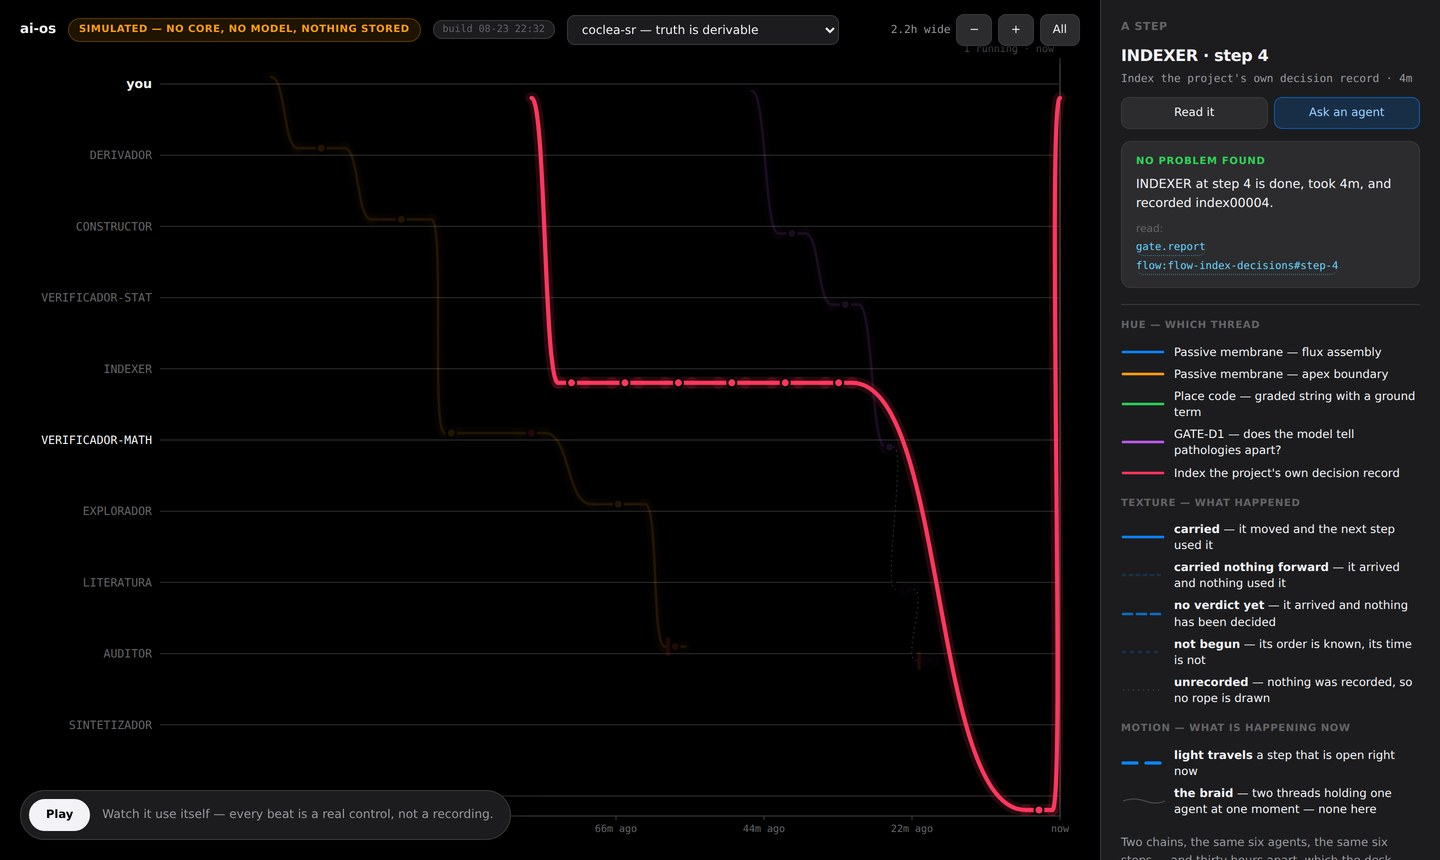
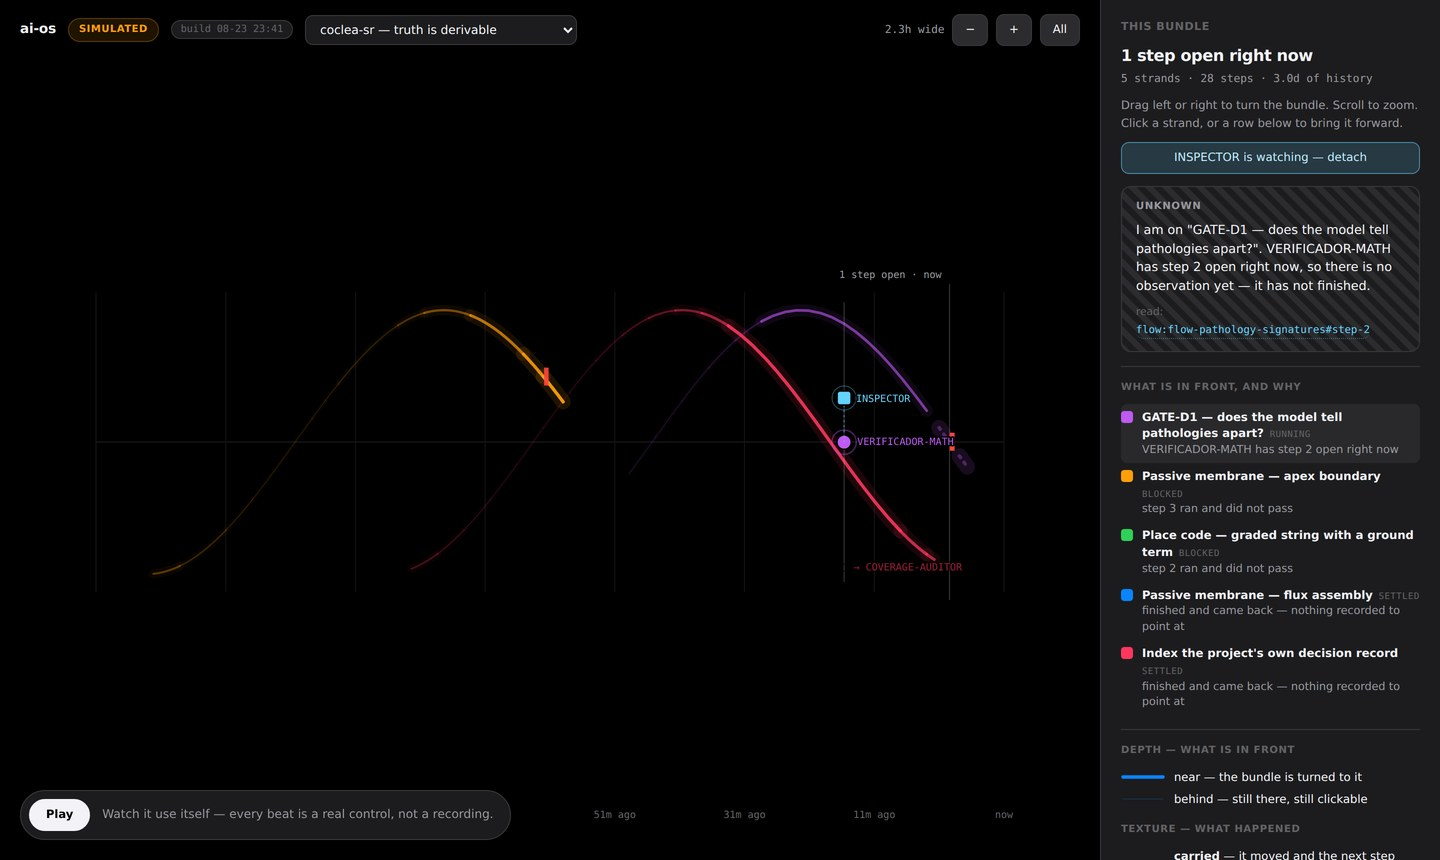
The bundle is the demo
`/demo/` is `build-helix.ts` now: one axis that is time, every flow a strand
wound around it, and depth standing for attention.

It is not a different idea from the swimlanes — it is the same data with the
second dimension spent differently. Swimlanes spend Y on *which agent holds it*,
which is legible and does not scale: eleven agents is eleven rows. The bundle
spends Y and Z on *which strand*, and puts the agent on the strand as a body
riding it. That is the RNA-and-polymerase picture, and it is also the right way
round: an agent holds a task for a while and hands it on, and it is the task that
persists.

What the bundle can do that swimlanes cannot is **turn**, and turning is a claim
— so it carries the same address rule as every finding here. The panel says which
strand is in front, why, and where it read that; `assertJustified` throws on a
reason with no address.

A Play tour, under the same rule as every tour in this repository: each beat
operates the real controls — the real attention rows, the real zoom, the real
scene selector, the real attach button. Watched it run end to end: 51s, no page
errors.

And it caught the same class of defect I keep catching by watching rather than
testing. The beat that says *zoom out far enough and the coil stops being drawn*
pressed zoom-out four times, which reaches twenty-four hours — where a turn is
still about seventy-five pixels and the coil is still very much drawn. It presses
[…]

diff --git a/ai-ui/scripts/build-helix.ts b/ai-ui/scripts/build-helix.ts
@@ -839,6 +839,135 @@ const JS = String.raw`
   draw();
   styleLive();
   animate();
+
+  /**
+   * Play — the bundle, driving itself.
+   *
+   * The rule every tour in this repository lives under: each beat operates the
+   * **real controls** — the real attention rows, the real zoom buttons, the real
+   * scene selector, the real attach button — and then lets the page react
+   * however it reacts. Nothing draws a frame or asserts an outcome, so if the
+   * surface breaks the tour breaks. Any real gesture stops it where it stands.
+   */
+  (() => {
+    const bar = document.createElement('div');
+    bar.className = 'tourbar';
+    bar.innerHTML = '<button id="tourgo">Play</button><span id="tourcap">' +
+      'Watch it use itself — every beat is a real control, not a recording.</span>';
+    document.body.appendChild(bar);
+
+    let running = false, stop = false;
+    const cap = (t) => { document.getElementById('tourcap').textContent = t; };
+    const sleep = (ms) => new Promise((r) => setTimeout(r, ms));
+    const halt = () => { if (!running) return; stop = true;
+      cap('Stopped — it is yours. Drag to turn it, scroll to zoom, click anything.'); };
+    for (const ev of ['pointerdown', 'keydown', 'wheel'])
+      window.addEventListener(ev, (e) => { if (e.isTrusted) halt(); }, true);
+
+    const press = async (id, n) => {
+      for (let i = 0; i < (n || 1) && !stop; i += 1) {
+        const b = document.getElementById(id);
+        if (b) b.click();
+        await sleep(200);
+      }
+    };
+    /** Click a row in the attention list — the real one, by its flow id. */
+    const turnRow = async (i) => {
+      const rows = [...document.querySelectorAll('.att .row')];
+      if (rows[i]) rows[i].click();
+      await sleep(900);
+    };
+    const scene = async (id) => {
+      const s = document.getElementById('scene');
+      s.value = id;
+      s.dispatchEvent(new Event('change', { bubbles: true }));
+      await sleep(1200);
+    };
+
+    const beats = [
+      async () => {
+        cap('Every flow is a strand wound round one axis, and the axis is time. The right edge is now, and everything drifts left because the clock is running.');
+        await sleep(4000);
+      },
+      async () => {
+        cap('They separate in depth, not in height. What is bright and thick is at the front; what is faint is behind the bundle — still there, still clickable.');
+        await sleep(3800);
+      },
+      async () => {
+        cap('The bundle is already turned to the strand with a step open right now. Turning is a claim, so the panel says which strand, why, and where it read that.');
+        await sleep(4200);
+      },
+      async () => {
+        cap('The circles are the agents, riding the strand they are holding. Where a strand has a hollow mark instead, nobody is holding it — that is the thing in transit between two of them.');
+        await sleep(4200);
+      },
+      async () => {
+        cap('Turn it to something else. This one stops against a bar and never comes back: a gate declared before the run measured 2.592e-4 against a tolerance of 1.0e-4.');
+        await turnRow(1);
+        await sleep(4000);
+      },
+      async () => {
+        /**
+         * Zoom out until the coil actually stops, not a fixed number of presses.
+         *
+         * Four presses reached twenty-four hours, where a turn is still about
+         * seventy-five pixels — so the beat claimed the coil had stopped being
+         * drawn while the screen was still drawing it. The number of presses
+         * that crosses the threshold depends on the window width, which the tour
+         * cannot know. So it presses until the page says it is flat, and gives up
+         * rather than looping if it never does.
+         */
+        cap('Zoom out far enough and the coil stops being drawn — one turn would be narrower than the marks drawing it, so what you would see is the sampling and not the shape. It says so rather than drawing it.');
+        for (let i = 0; i < 9 && !stop; i += 1) {
+          if (/flat/.test(document.getElementById('lvl').textContent)) break;
+          await press('zout');
+        }
+        await sleep(4200);
+      },
+      async () => {
+        cap('Back in, and it winds again.');
+        await press('znow');
+        await sleep(2600);
+      },
+      async () => {
+        cap('Put the system agent on it. INSPECTOR is an agent like the others, with one tool: read. It attaches to the front strand and rides it.');
+        await press('watch');
+        await sleep(4200);
+      },
+      async () => {
+        cap('What it says carries the address it read — one click and you are looking at what it looked at. When it has nothing to read, it is required to say unknown.');
+        await sleep(4000);
+      },
+      async () => {
+        cap('The other project. No closed form exists there, so the judge itself goes on trial — and one strand frays and stops, because no verdict has been reached.');
+        await scene('hemo-verified');
+        await sleep(4400);
+      },
+      async () => {
+        cap('And here the bundle turns on its own, to a strand that is green all the way through and wrong: a step used nothing it was given. That is the finding this whole system exists to make visible.');
+        await scene('memory-lab');
+        await sleep(4800);
+      },
+      async () => {
+        cap('It is yours. Drag to turn it, scroll to zoom, click any strand or any row.');
+        await sleep(2200);
+      },
+    ];
+
+    const play = async () => {
+      if (running) { halt(); return; }
+      running = true; stop = false;
+      document.getElementById('tourgo').textContent = 'Stop';
+      for (const beat of beats) {
+        if (stop) break;
+        try { await beat(); }
+        catch (e) { cap('The tour hit something the page did not expect: ' + e.message); break; }
+      }
+      running = false; stop = false;
+      document.getElementById('tourgo').textContent = 'Play again';
+    };
+    document.getElementById('tourgo').onclick = play;
+  })();
 })();
 `;
 

diff --git a/README.es.md b/README.es.md
@@ -55,9 +55,9 @@ no.
 
 ### → **[evolvingagentslabs.github.io](https://evolvingagentslabs.github.io/)** — qué es, y un escritorio que podés usar en el navegador
 
-<a href="https://evolvingagentslabs.github.io/demo/"><img src="doc/assets/manual/09-desk.jpg" alt="Hilos de pensamiento: lo horizontal es tiempo, cada cuerda es un flow, y dónde está es qué agente lo sostiene" width="100%"></a>
+<a href="https://evolvingagentslabs.github.io/demo/"><img src="doc/assets/manual/09-desk.jpg" alt="Un haz de flows enroscado alrededor de un eje de tiempo, con los agentes cabalgando las hebras que sostienen" width="100%"></a>
 
-<sub><b><a href="https://evolvingagentslabs.github.io/demo/">Abrí el demo →</a></b> <b>Lo horizontal es tiempo y el borde derecho es ahora.</b> Cada cuerda es un flow; dónde está dice qué agente lo sostiene. Arranca con vos preguntando, baja por los agentes y — si terminó — vuelve a vos. Arrastrá a la izquierda para ir atrás, scroll para zoom, clickeá cualquier cuerda o cuenta.<br><br><b>El tono es qué hilo. La textura es qué pasó.</b> Un salto que llevó algo está encendido; uno que llegó y nadie usó se apaga; uno esperando veredicto se deshilacha; y uno que nadie registró <b>no se dibuja</b> — ves el fondo a través, porque <i>no corrió</i> no es <i>pasó</i>.<br><br><b>Y todo lo que se mueve es una medición.</b> Se anima exactamente una cosa sola: un paso abierto ahora mismo. Cuando no hay ninguno, nada en la página se mueve — que es lo único que hace creíble la versión que sí se mueve.<br><br>Cuatro scopes, todos reales: <b>coclea-sr</b> (dos cadenas, los mismos seis agentes, con treinta horas de diferencia — una volvió, la otra frenó en una compuerta que midió 2.592e-4 contra una tolerancia de 1.0e-4), <b>hemo-verified</b> (sin forma cerrada, así que se mide al juez: 0.9056 contra un umbral escrito antes), y los dos scopes que cargan un flow verde y equivocado. <b>La orquestación es simulada</b> — sin core, sin modelo, nada guardado — pero los números salen de los artefactos de los proyectos, y <a href="scripts/check-demo-provenance.py"><code>check-demo-provenance.py</code></a> rompe el build si alguno deja de coincidir. Para re-derivarlos vos, byte por byte, en tu navegador: <b><a href="https://evolvingagentslabs.github.io/verify/">la página de verificación</a></b>.</sub>
+<sub><b><a href="https://evolvingagentslabs.github.io/demo/">Abrí el demo →</a></b> <b>Un eje, y es el tiempo.</b> Cada flow es una hebra enroscada a su alrededor, así que comparten la misma banda de pantalla y se separan <b>en profundidad</b>, no en altura — lo brillante y grueso está adelante, lo tenue está detrás del haz. <b>Arrastrá para girarlo.</b> Girar es cómo prestás atención: otra hebra viene al frente sin que nada tenga que correrse.<br><br><b>Los agentes cabalgan la hebra que sostienen.</b> Un círculo es un agente con el pensamiento en la mano; donde hay una marca hueca, nadie lo está sosteniendo — eso es lo que va en tránsito entre dos. <code>INSPECTOR</code>, un agente de sistema con una sola herramienta (read), se engancha a cualquier hebra y la cabalga, y todo lo que dice lleva la dirección de lo que leyó.<br><br><b>Dos movimientos, dos significados.</b> Todo se desplaza a la izquierda siempre, porque el reloj corre — lo cual es incondicionalmente cierto, y como las hebras se retuercen a lo largo del eje ese desplazamiento también gira el haz. La luz viaja una hebra <i>sólo</i> donde hay un paso abierto ahora. Y <b>girar es una afirmación</b>: el panel dice qué hebra está adelante, por qué, y de dónde lo leyó — un giro que la superficie no puede justificar es uno que se niega a hacer.<br><br>Alejarse agrega en vez de encoger: por debajo de cuarenta y seis píxeles por vuelta el espiral deja de dibujarse y lo dice, porque lo que verías sería el muestreo y no la forma. Cuatro scopes, todos reales — <b>coclea-sr</b> (una compuerta que midió 2.592e-4 contra una tolerancia de 1.0e-4), <b>hemo-verified</b> (sin forma cerrada, así que se mide al juez: 0.9056), y dos que cargan un flow verde y equivocado. <b>La orquestación es simulada</b>; los números salen de los artefactos de los proyectos, y <a href="scripts/check-demo-provenance.py"><code>check-demo-provenance.py</code></a> rompe el build si alguno deja de coincidir. Para re-derivarlos vos: <b><a href="https://evolvingagentslabs.github.io/verify/">la página de verificación</a></b>.</sub>
 
 ## Correrlo
 

diff --git a/README.md b/README.md
@@ -52,9 +52,9 @@ attached too — including the ones that came back saying it did not.
 
 ### → **[evolvingagentslabs.github.io](https://evolvingagentslabs.github.io/)** — what it is, and a desk you can use in the browser
 
-<a href="https://evolvingagentslabs.github.io/demo/"><img src="doc/assets/manual/09-desk.jpg" alt="Threads of thought: horizontal is time, each rope is one flow, and where it sits is which agent is holding it" width="100%"></a>
+<a href="https://evolvingagentslabs.github.io/demo/"><img src="doc/assets/manual/09-desk.jpg" alt="A bundle of flows coiled around a time axis, with the agents riding the strands they hold" width="100%"></a>
 
-<sub><b><a href="https://evolvingagentslabs.github.io/demo/">Open the demo →</a></b> <b>Horizontal is time and the right edge is now.</b> Each rope is one flow of work; where it sits is which agent is holding it. It starts with you asking, dips through the agents, and — if it finished — comes back to you. Drag left to go back, scroll to zoom, click any rope or bead.<br><br><b>Hue is which thread. Texture is what happened.</b> A hop that carried is lit; one that arrived and was used by nobody goes dark; one still waiting on a verdict frays; and one nobody recorded is <b>not drawn at all</b> — you see the background through it, because <i>did not run</i> is not <i>passed</i>.<br><br><b>And everything that moves is a measurement.</b> Exactly one thing animates on its own: a step that is open right now. When none is, nothing on the page moves — which is the only thing that makes the moving version worth believing.<br><br>Four scopes, all real: <b>coclea-sr</b> (two chains, the same six agents, thirty hours apart — one came home, one stopped at a gate that measured 2.592e-4 against a tolerance of 1.0e-4), <b>hemo-verified</b> (no closed form, so the judge itself is measured: 0.9056 against a kill threshold written down first), and the two scopes that carry a flow which is green and wrong. <b>The orchestration is simulated</b> — no core, no model, nothing stored — but the numbers come from the projects' own artifacts, and <a href="scripts/check-demo-provenance.py"><code>check-demo-provenance.py</code></a> fails the build if any stops matching. To re-derive them yourself, byte by byte, in your browser: <b><a href="https://evolvingagentslabs.github.io/verify/">the verification page</a></b>.</sub>
+<sub><b><a href="https://evolvingagentslabs.github.io/demo/">Open the demo →</a></b> <b>One axis, and it is time.</b> Every flow is a strand wound around it, so they share a band of screen and separate in <b>depth</b> rather than in height — what is bright and thick is at the front, what is faint is behind the bundle. <b>Drag to turn it.</b> Turning is how you pay attention: a different strand comes forward without anything moving out of the way.<br><br><b>The agents ride the strands they hold.</b> A circle is an agent with the thought in hand; where a strand carries a hollow mark instead, nobody is holding it — that is the thing in transit between two of them. <code>INSPECTOR</code>, a system agent with one tool (read), attaches to any strand and rides it, and everything it says carries the address it read.<br><br><b>Two motions, two meanings.</b> Everything drifts left always, because the clock is running — which is unconditionally true, and since the strands twist along the axis that drift also turns the bundle. Light travels a strand <i>only</i> where a step is open right now. And <b>turning is a claim</b>: the panel says which strand is in front, why, and where it read that — a rotation the surface cannot justify is one it refuses to make.<br><br>Zooming out aggregates rather than shrinks: below forty-six pixels a turn the coil stops being drawn and says so, because what you would see is the sampling and not the shape. Four scopes, all real — <b>coclea-sr</b> (a gate that measured 2.592e-4 against a tolerance of 1.0e-4), <b>hemo-verified</b> (no closed form, so the judge itself is measured at 0.9056), and two that each carry a flow which is green and wrong. <b>The orchestration is simulated</b>; the numbers come from the projects' own artifacts, and <a href="scripts/check-demo-provenance.py"><code>check-demo-provenance.py</code></a> fails the build if any stops matching. To re-derive them yourself: <b><a href="https://evolvingagentslabs.github.io/verify/">the verification page</a></b>.</sub>
 
 ## Run it
 

diff --git a/doc/21-threads-of-thought.md b/doc/21-threads-of-thought.md
@@ -229,8 +229,28 @@ mark exists, tested, for the first time there is.
 
 ## 8. Status
 
-**It is the demo, as of 2026-08-23.** `/demo/` is the thread view; the desk is
-still built, still tested, still what `make up` serves, and no longer published.
+**The bundle is the demo, as of 2026-08-23.** `/demo/` is `build-helix.ts`: one
+axis that is time, every flow a strand wound around it, and depth standing for
+attention. The swimlane view in this document and the desk before it are both
+still built, still tested, and no longer published — the desk is what `make up`
+serves.
+
+The bundle is not a different idea from the swimlanes; it is the same data with
+the second dimension spent differently. Swimlanes spend Y on *which agent holds
+it*, which is legible and does not scale: eleven agents is eleven rows. The
+bundle spends Y and Z on *which strand*, and puts the agent on the strand as a
+body riding it — which is both the RNA-and-polymerase picture and the right way
+round, because an agent holds a task for a while and hands it on, and it is the
+task that persists.
+
+What the bundle can do that the swimlanes cannot: **turn**. Rotation is a way of
+paying attention — a strand comes forward without anything else moving out of the
+way — and because it is a claim about what deserves looking at, it carries the
+same address rule as every finding on the surface. `assertJustified` throws on a
+reason with no address.
+
+What it costs: strands at 2π/n are legible as a bundle up to maybe eight, and
+past that the same aggregation problem returns in a new shape.
 That was the author's call, made when the sketch was working and the desk was
 live beside it, and the reasoning is worth recording because it is not obvious:
 
